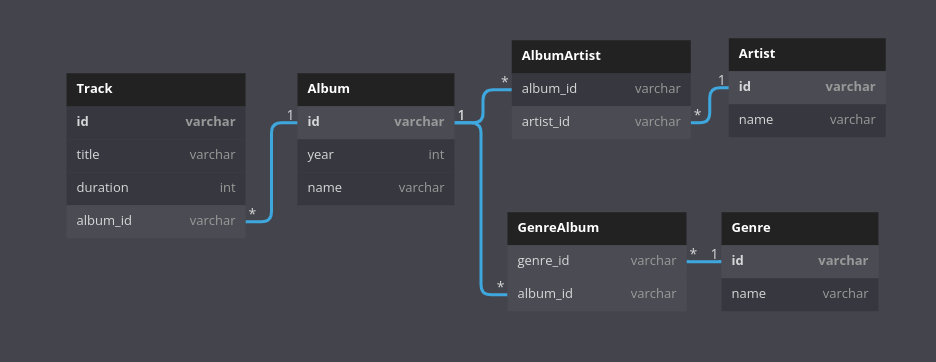
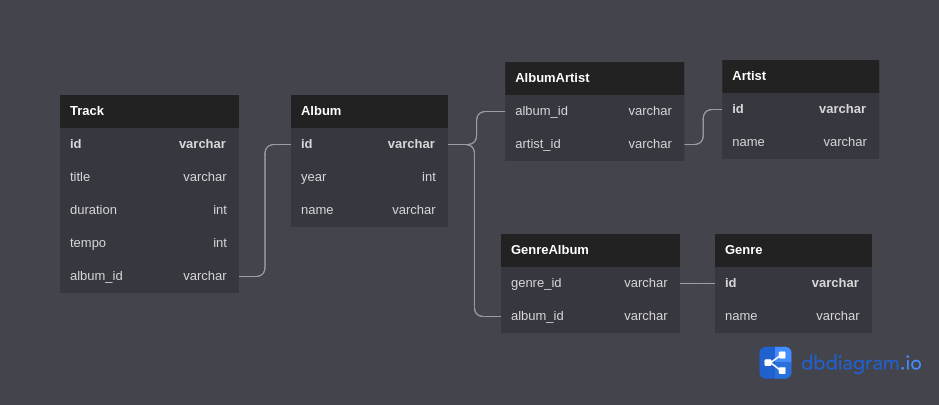
[FIX] error checking [UPDATE] ERD [ADD] tqdm progress bar

diff --git a/main.py b/main.py
@@ -66,19 +66,28 @@ def fill_db_from_spotify(args):
     spotify = SpotifyDBFiller()
     tracks = spotify.dbmanager.get_tracks()
     db_ids, spotify_ids, tempos = [], [], []
-    for track in tracks:
-        db_id, name, tempo, album, artist = track
-        # Checks if the tempo is not already saved
-        if tempo is None:
-            db_ids.append(db_id)
+    count = 0
+    batch_size = 100
+    # Removing tracks where tempo already added
+    tracks = [track for track in tracks if track[2] is None]
+    with tqdm(total=batch_size) as pbar:
+        for track in tracks:
+            db_id, name, tempo, album, artist = track
             spotify_id = spotify.get_track_spotify_id(name, album, artist)
-            spotify_ids.append(spotify_id)
-            # Every 100 ids (spotify's limit), make a batch request
-            if len(spotify_ids) == 100:
+            time.sleep(.1)  # I don't want to reach Spotify's max request rate
+            if spotify_id:
+                spotify_ids.append(spotify_id)
+                db_ids.append(db_id)
+                pbar.update()
+            # Every BATCH_SIZE ids (spotify's limit), make a batch request
+            if len(spotify_ids) == batch_size:
+                count += batch_size
                 features = spotify.get_audio_features(spotify_ids)
                 tempos = tempos + [int(feature['tempo']) for feature in features]
                 spotify.fill_tempos_in_db(db_ids, tempos)
+                logging.info(f"Added {count}/{len(tracks)} tempos in database")
                 spotify_ids = []
+                pbar.reset()
 
 
 def main():
@@ -86,7 +95,7 @@ def main():
     parser = parse_arguments()
     args = vars(parser.parse_args())
     log_level = logging.DEBUG if args.pop("debug") else logging.INFO
-    logging.basicConfig(level=log_level, format='%(asctime)s %(levelname)s:%(message)s')
+    logging.basicConfig(filename="logs.txt", level=log_level, format='%(asctime)s %(levelname)s:%(message)s')
 
     if args['api']:
         logging.info("Starting Spotify API requests")

diff --git a/spotify/wrapper.py b/spotify/wrapper.py
@@ -1,8 +1,12 @@
-import requests
-from spotify import SpotifyAuth
-import os
-import dotenv
 import json
+import logging
+import os
+
+import dotenv
+import requests
+
+from spotify import SpotifyAuth
+
 dotenv.load_dotenv()
 
 
@@ -12,14 +16,22 @@ class SpotifyWrapper:
     def __init__(self):
         self.auth = SpotifyAuth(os.environ['CLIENT_ID'], os.environ['CLIENT_SECRET'])
         self.headers = self.auth.get_headers()
+        self.Logger = logging.Logger(__name__)
 
     def search(self, query: str):
         """Searches spotify with the given query"""
         params = {'q': query, 'limit': 1, 'type': 'track'}
         result = requests.get(self.BASE_URL + 'search', headers=self.headers, params=params)
         data = json.loads(result.text)
-        track = data['tracks']['items'][0]
-        return track
+        if 'error' in data:
+            logging.warning(f"Error {data['error']['status']} for query {query}")
+            return None
+        else:
+            if len(data['tracks']['items']) > 0:
+                track = data['tracks']['items'][0]
+                return track
+            else:
+                return None
 
     def get_audio_features(self, track_ids: list):
         """Gets the audio features of a list of songs from spotify's api"""

diff --git a/spotify/spotify_db.py b/spotify/spotify_db.py
@@ -10,8 +10,11 @@ class SpotifyDBFiller:
     def get_track_spotify_id(self, track_name: str, album: str, artist: str):
         """Search spotify to get the spotify's id of a given song"""
         track_data = self.wrapper.search(f"{track_name} {album} {artist}")
-        track_id = track_data['id']
-        return track_id
+        if track_data:
+            track_id = track_data['id']
+            return track_id
+        else:
+            return None
 
     def get_audio_features(self, ids: list):
         """Gets the audio features of a list of songs from spotify's api"""
@@ -19,10 +22,8 @@ class SpotifyDBFiller:
 
     def fill_tempos_in_db(self, db_ids: list, tempos: list):
         """Fill the tempo column of given tracks in the database"""
-        for d in zip(db_ids, tempos):
-            id, tempo = d
-            self.dbmanager.insert_data_from_spotify(id, tempo)
-
+        args = list(zip(tempos, db_ids))
+        self.dbmanager.insert_tempo_list_from_spotify(args)
 
 
 if __name__ == "__main__":

diff --git a/sql/database_manager.py b/sql/database_manager.py
@@ -47,16 +47,22 @@ class DatabaseManager:
             JOIN AlbumArtist aa on aa.album_id = a.id 
             JOIN Artist a2 on a2.id = aa.artist_id 
         """
-        if size :
+        if size:
             query += f" LIMIT {size}"
         self.cursor.execute(query)
         result = self.cursor.fetchall()
         return result
 
-    def insert_data_from_spotify(self, track_id, tempo):
+    def insert_tempo_from_spotify(self, track_id, tempo):
         """Fill the tempo column of given tracks in the database"""
         query = f"UPDATE Track SET tempo = {tempo} WHERE id = '{track_id}'"
         self.cursor.execute(query)
+
+    def insert_tempo_list_from_spotify(self, args):
+        """Fill the tempo column of given tracks in the database"""
+        query = "UPDATE Track SET tempo = %s WHERE id = %s"
+        self.cursor.executemany(query, args)
+        self.connection.commit()
 
     def _insert_album(self, album: DbAlbum):
         """Inserts an album into the database"""
